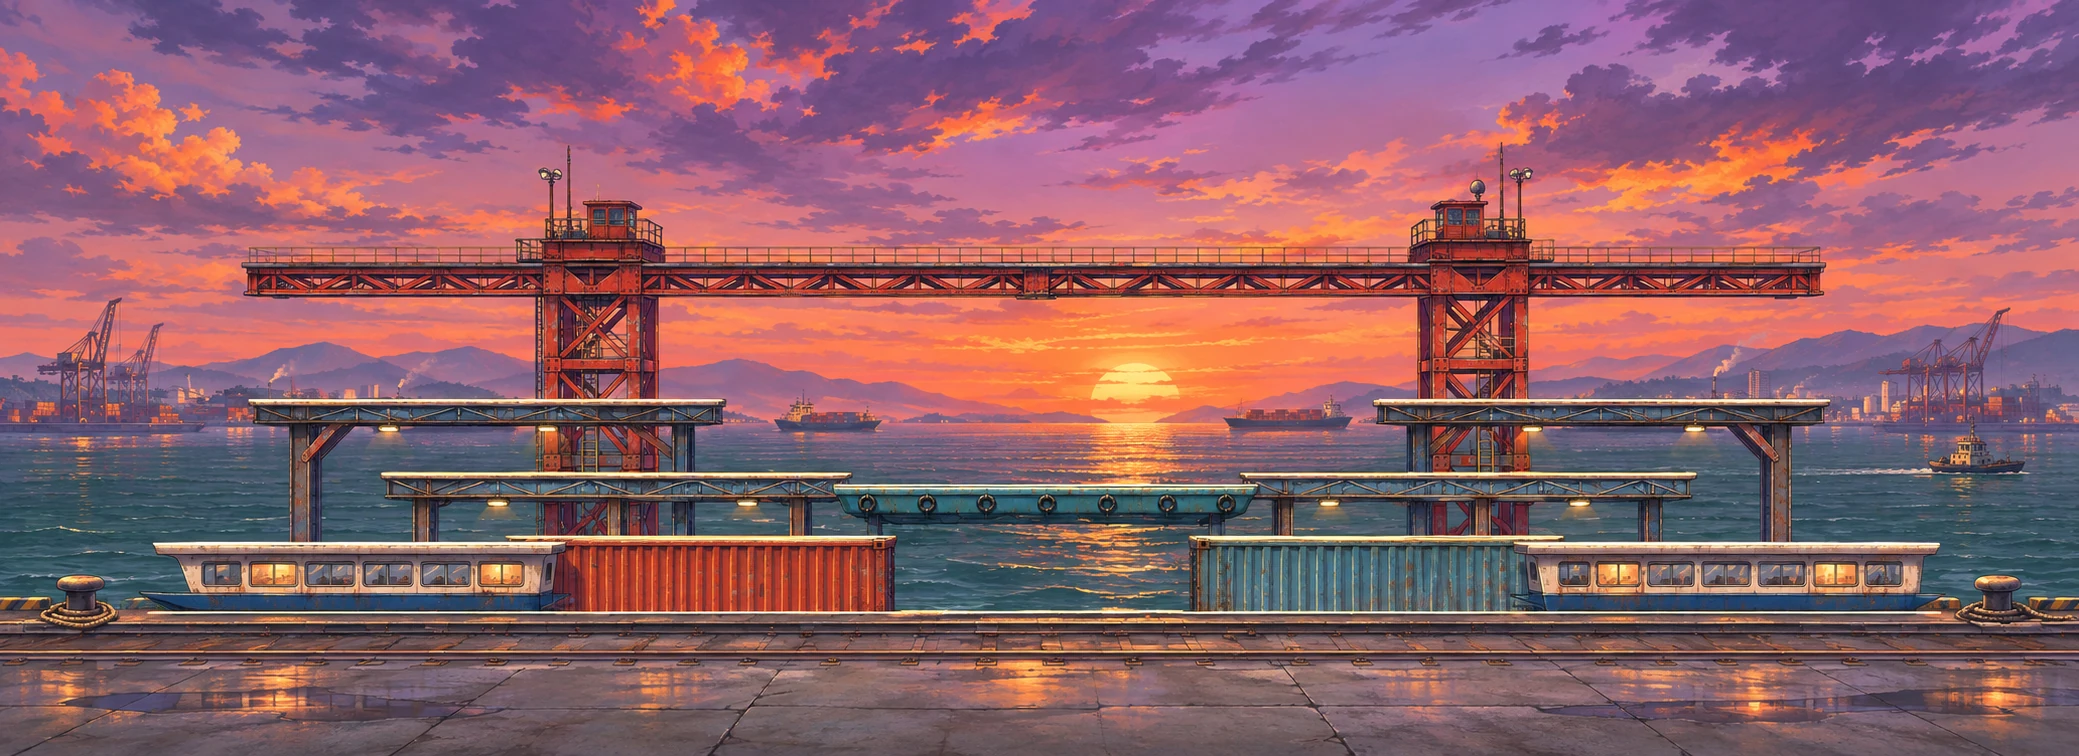
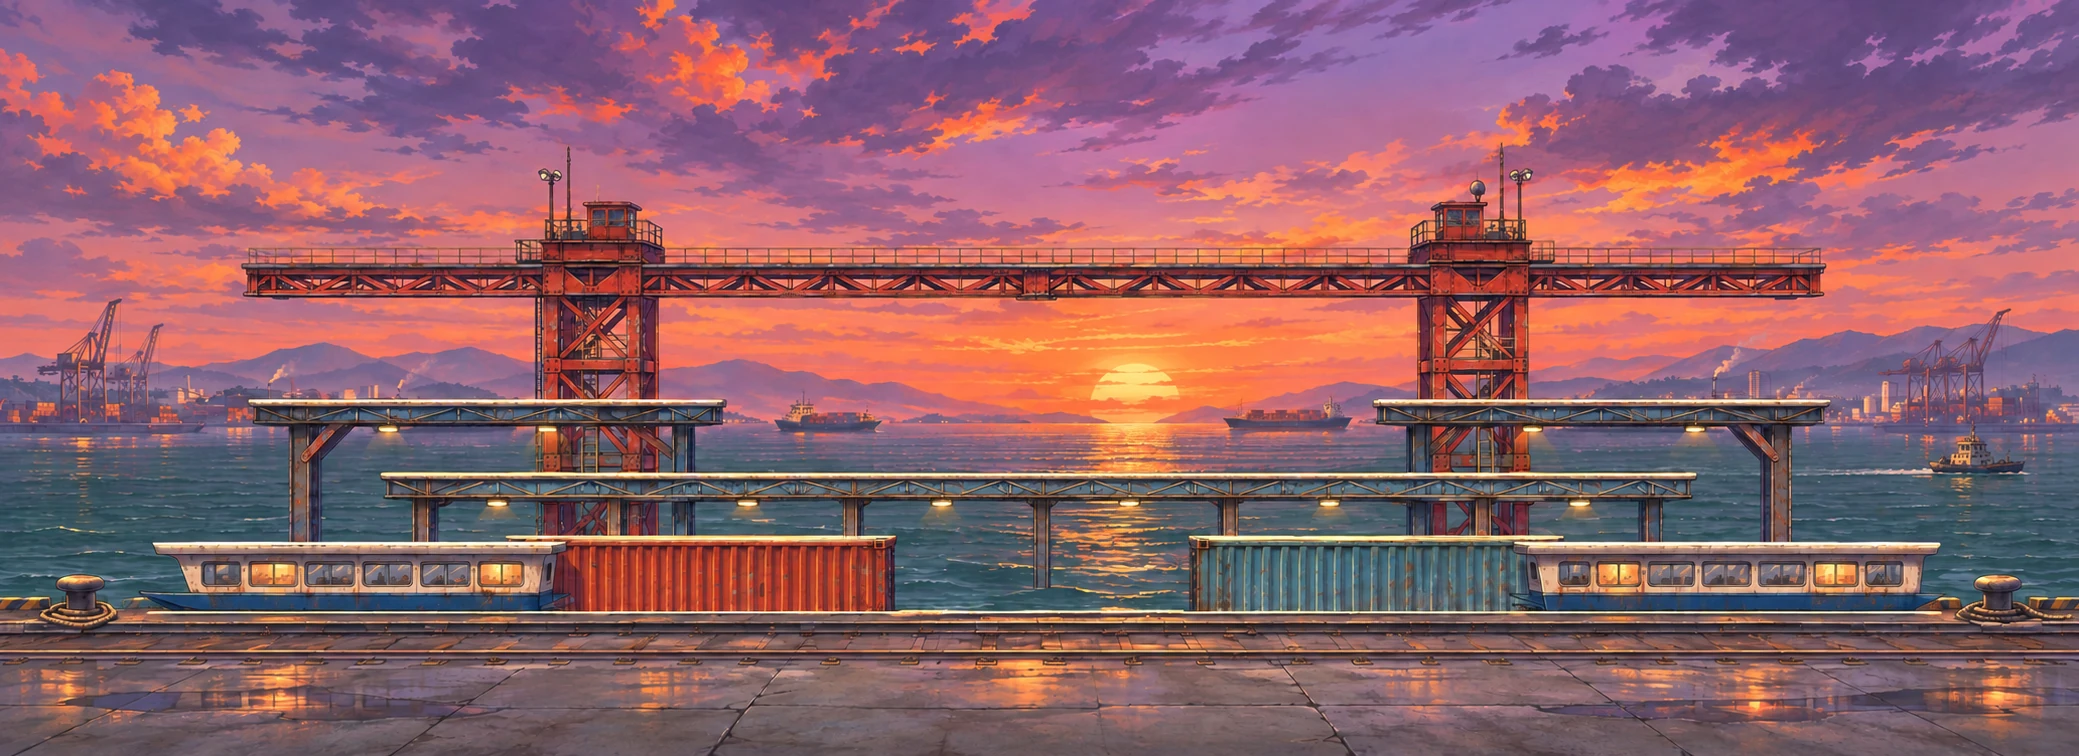
Flatten the harbor catwalk into a continuous fighting lane

diff --git a/src/content/harbor.ts b/src/content/harbor.ts
@@ -9,18 +9,16 @@ function deck(id: string, name: string, tier: Platform['tier'], left: number, ri
 export const harbor: ArenaDefinition = {
   id: 'harbor', name: '余晖货港', theme: 'harbor', width: 4352, height: 2448, left: 96, right: 4256, floor,
   spawn: [2009, 2355],
-  terrain: '浮码头换岸 · 吊盘捷径',
-  description: '货柜、栈桥和检修廊构成两翼的登高路线。中层可经浮码头换边，横移吊盘可从高处越过水道。',
-  routes: [['loading', 'gangway', 'west-gallery'], ['east-loading', 'overpass', 'east-gallery']],
+  terrain: '贯通栈桥 · 吊盘捷径',
+  description: '两翼货柜都通往同一条中层栈桥，可以沿桥横向追击。上方检修廊和横移吊盘提供高位路线。',
+  routes: [['loading', 'gangway', 'west-gallery'], ['east-loading', 'gangway', 'east-gallery']],
   artFrame: [],
   platforms: [
     deck('boat-bow', '渡船顶棚', 1, 330, 1185, 116, 'ferry'),
     deck('loading', '西侧货柜顶', 1, 1070, 1872, 128, 'container'),
-    deck('gangway', '左侧装卸栈桥', 2, 805, 1785, 256, 'catwalk'),
+    deck('gangway', '贯通栈桥', 2, 805, 3547, 256, 'catwalk'),
     deck('west-gallery', '西吊架检修廊', 3, 520, 1515, 386, 'gallery'),
     deck('east-loading', '东侧货柜顶', 1, 2492, 3270, 128, 'trailer'),
-    deck('overpass', '右侧绳栏栈桥', 2, 2590, 3547, 256, 'catwalk'),
-    deck('pontoon', '中央浮码头', 2, 1745, 2630, 230, 'bridge'),
     deck('east-gallery', '东吊架检修廊', 3, 2885, 3810, 386, 'gallery'),
     deck('end-boat', '补给船客舱', 1, 3160, 4045, 116, 'ferry'),
     { ...deck('crane', '横移吊盘', 3, 1500, 1850, 384, 'pallet'),

diff --git a/src/web/navigation.ts b/src/web/navigation.ts
@@ -36,6 +36,8 @@ export function approachPlatform(state: MatchState, config: MatchConfig): InputF
   const surfaces = raw.map(p => platformAt(p, state.arenaFrame));
   const goal = surfaces.find(p => p.id === destination.id)!;
   const support = surfaces.find(p => p.id === cpu.ground);
+  const oneBranch = arena.routes.filter(route => route.includes(goal.id)).length === 1;
+  const sharedSurfaces = arena.routes[0].filter(id => arena.routes[1].includes(id));
   const costs = new Map<Platform, number>([[goal, 0]]);
   const pending = new Set(surfaces);
 
@@ -54,7 +56,10 @@ export function approachPlatform(state: MatchState, config: MatchConfig): InputF
       const ticks = descendingTicks(p.y, -jump, next.y);
       const gap = Math.max(p.left - next.right, next.left - p.right, -2 * inset) + 2 * inset;
       if (!ticks || gap > (ticks - 2) * airSpeed) continue;
-      const approach = Math.abs(p.left + p.right - next.left - next.right) / (2 * run);
+      // When one branch leads to the goal, favor its end of the shared platform.
+      const nextX = oneBranch && sharedSurfaces.includes(next.id)
+        ? nearest(target.x, next) : (next.left + next.right) / 2;
+      const approach = Math.abs((p.left + p.right) / 2 - nextX) / run;
       const total = cost + ticks + approach;
       if (total < (costs.get(p) ?? Infinity)) costs.set(p, total);
     }

diff --git a/src/web/arena-ink.ts b/src/web/arena-ink.ts
@@ -551,19 +551,12 @@ function harborArchitecture(ctx: CanvasRenderingContext2D, arena: ArenaDefinitio
         bar(ctx, '#39384a66', rib, y + 24, 6, arena.floor - y - 41);
       }
       eave(ctx, p, '#c9ad8e', '#654955', 18);
-    } else if (p.prop === 'bridge') {
-      for (const x of [left + 86, right - 86]) pilaster(ctx, c, x, y + 41, arena.floor - 24, 24);
-      poly(ctx, '#325869', [[left, y + 5], [right, y + 5],
-        [right - 28, y + 55], [left + 28, y + 55]]);
-      for (let x = left + 75; x < right - 37; x += 125) {
-        disc(ctx, '#212e43', x, y + 37, 16);
-        disc(ctx, '#687b76', x, y + 37, 8);
-      }
-      eave(ctx, p, '#abc6bb', '#517983', 18);
     } else {
       const upper = p.prop === 'gallery';
       if (!upper) {
-        for (const x of [left + 83, right - 112]) pilaster(ctx, c, x, y + 8, arena.floor, 39);
+        for (const x of [left + 83, left + width / 3, right - width / 3, right - 112]) {
+          pilaster(ctx, c, x, y + 8, arena.floor, 39);
+        }
       }
       bar(ctx, '#3e4154', left + 10, y + 10, width - 20, upper ? 37 : 48);
       lattice(ctx, '#917375', left + 17, y + 17, width - 34, upper ? 25 : 34, 105);

diff --git a/src/web/illustrated-arenas.ts b/src/web/illustrated-arenas.ts
@@ -42,8 +42,7 @@ const scenes = new Map<string, Illustration>([
     { row: 184, rise: 730 },
     { row: 294, rise: 456 },
     { row: 399, rise: 386, lips: [['west-gallery', 248, 726, 399], ['east-gallery', 1373, 1831, 399]] },
-    { row: 473, rise: 256, lips: [['gangway', 381, 852, 473], ['overpass', 1238, 1698, 473]] },
-    { row: 485, rise: 230, lips: [['pontoon', 833, 1260, 485]] },
+    { row: 473, rise: 256, lips: [['gangway', 381, 1698, 473]] },
     { row: 536, rise: 128, lips: [['loading', 506, 895, 536], ['east-loading', 1189, 1564, 536]] },
     { row: 542, rise: 116, lips: [['boat-bow', 153, 565, 542], ['end-boat', 1514, 1940, 542]] },
     { row: 611, rise: 0 }

diff --git a/README.md b/README.md
@@ -24,12 +24,12 @@
 | 地图 · 直接进训练 | 可走宽度（游戏单位） | 地面上方落脚面 | 场景和路线 |
 |---|---:|---:|---|
 | [直播擂台](http://127.0.0.1:4182/?practice=broadcast-ring) | 4288 | 0 | 单层特殊图：整条拳台地面贯通，观众、播报屏与应援灯只作背景，适合地面对打、远程追击和长位移。 |
-| [余晖货港](http://127.0.0.1:4182/?practice=harbor) | 4160 | 10 | 两侧货柜各通往栈桥和检修廊。中层可从栈桥下穿到浮码头换岸，高位可搭横移吊盘。 |
+| [余晖货港](http://127.0.0.1:4182/?practice=harbor) | 4160 | 8 | 两侧货柜各通往中层贯通栈桥和高位检修廊。中层能一路跑到对岸，高位可搭横移吊盘。 |
 | [宿舍楼顶](http://127.0.0.1:4182/?practice=dorm-roof) | 3968 | 6 | 花房、机房和外翼矮台均可接上 2680 单位长的跨院连廊。两端都能逐层回地面，偏东的水塔可退回连廊。 |
 | [夜训球场](http://127.0.0.1:4182/?practice=night-court) | 4288 | 5 | 中圈地面对攻，两翼看台分别接上中央计分牌。计分牌同步显示胜场和倒计时。 |
 | [星电站](http://127.0.0.1:4182/?practice=star-station) | 4160 | 9 | 两塔各有四层固定登高路线。中层电缆桥可横跳换边，中央升降机在地面附近和塔冠之间移动。 |
 
-选图时可以打开「路线图」查看落脚面和登高方向。四张多层图的主要路线都能逐层普通跳，站在两层重叠处按「下＋跳」可落到下一层。货港的浮码头位于两翼栈桥的内侧下方。下到浮码头后跑到对岸端，再跳回另一侧栈桥。[五张地图路线图](docs/arena-routes.png)
+选图时可以打开「路线图」查看落脚面和登高方向。四张多层图的主要路线都能逐层普通跳，站在两层重叠处按「下＋跳」可落到下一层。[五张地图路线图](docs/arena-routes.png)
 
 ## 好友联机
 
